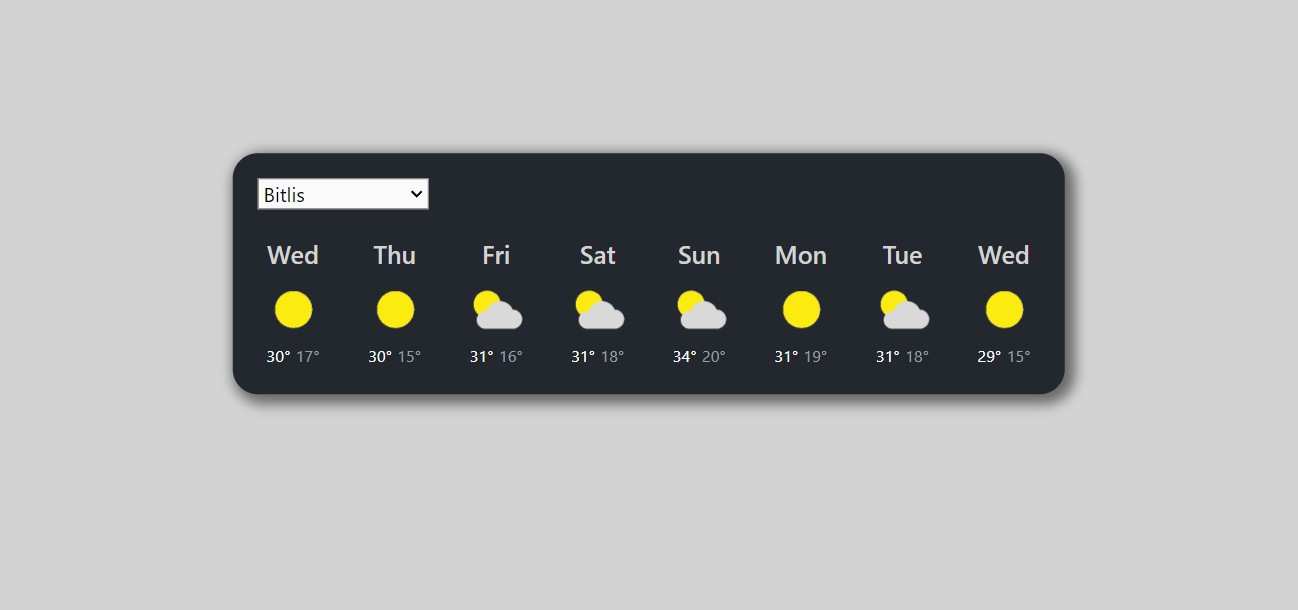
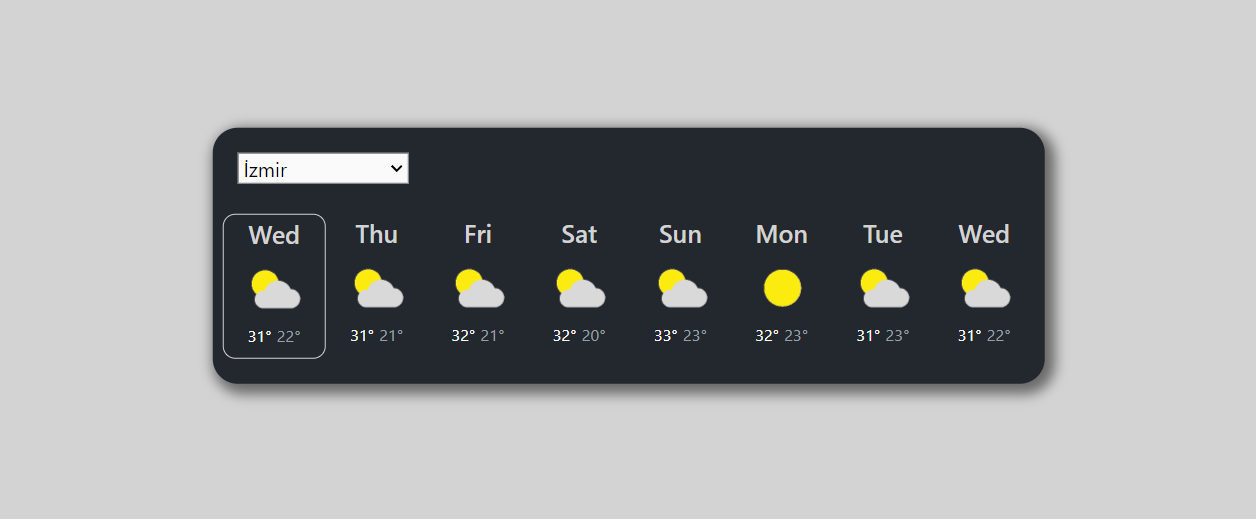
Made a few css changes

Changed region(s): [[0.1553, 0.2466, 0.8694, 0.7707]]

diff --git a/Homework3/main/src/App.css b/Homework3/main/src/App.css
@@ -21,8 +21,8 @@ img {
   color: white;
   padding: 20px;
   border-radius: 20px;
-  -webkit-box-shadow: 4px 4px 10px 4px rgba(0,0,0,0.5); 
-  box-shadow: 4px 4px 10px 4px rgba(0,0,0,0.5);
+  -webkit-box-shadow: 4px 4px 10px 4px rgba(0, 0, 0, 0.5);
+  box-shadow: 4px 4px 10px 4px rgba(0, 0, 0, 0.5);
 }
 .newColor {
   color: #9aa0a6;
@@ -32,4 +32,12 @@ img {
 }
 .iColor {
   background-color: rgb(250, 250, 250);
+}
+.border1 {
+  border: 1px solid lightgray;;
+  border-radius: 10px;
+}
+.wDays {
+  padding-top: 3px;
+  height: 116px;
 }

diff --git a/Homework3/main/src/components/Content.js b/Homework3/main/src/components/Content.js
@@ -7,7 +7,7 @@ function Content() {
   return (
     <div className="row schema">
       {days.map((item, index) => (
-        <div key={index} className="col">
+        <div key={index} className={`col wDays ${index === 0 ? "border1" : ""}`}>
           <h5 className="hColor">
             {weekday[new Date(item.datetime).getDay()]}
           </h5>
